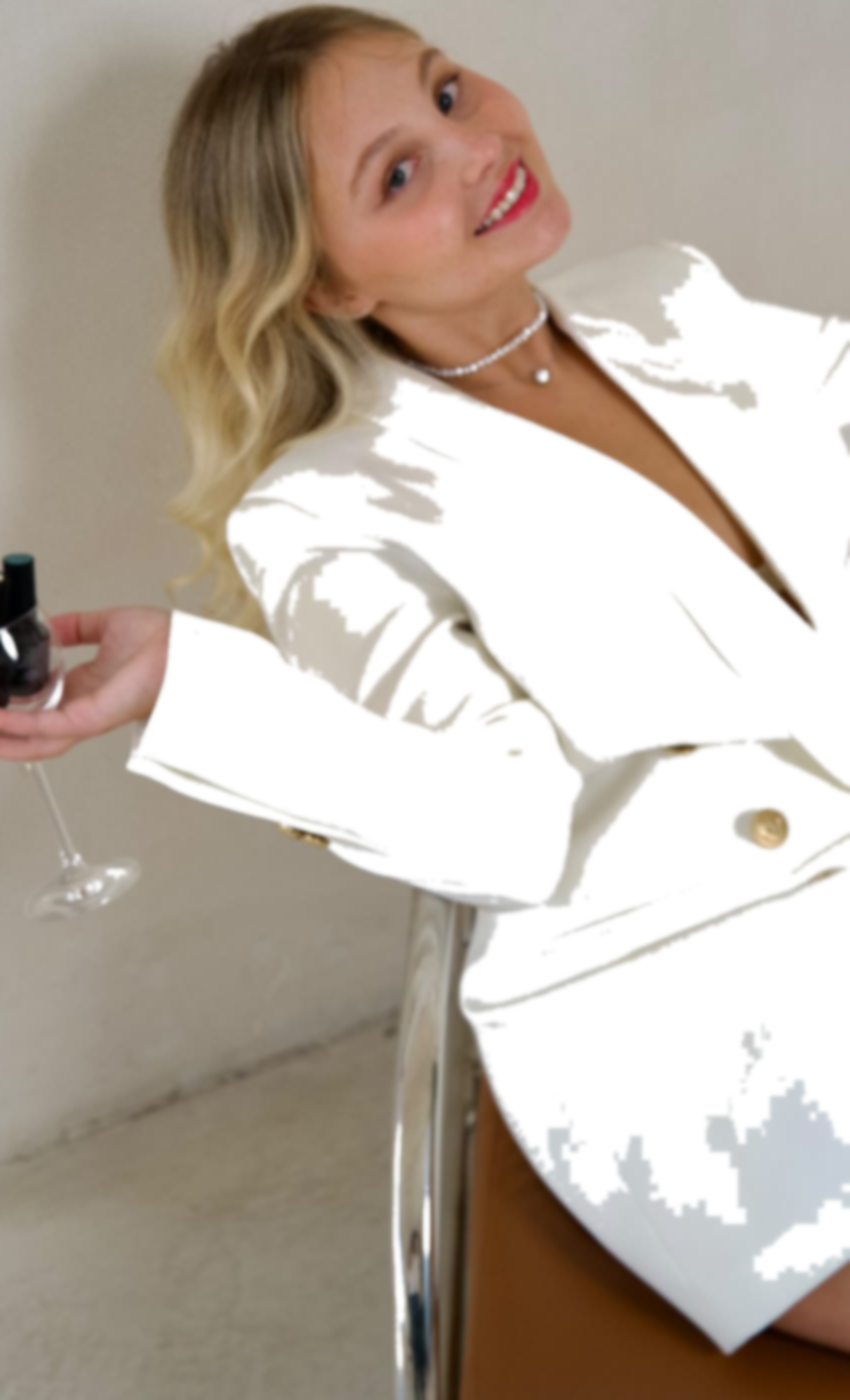
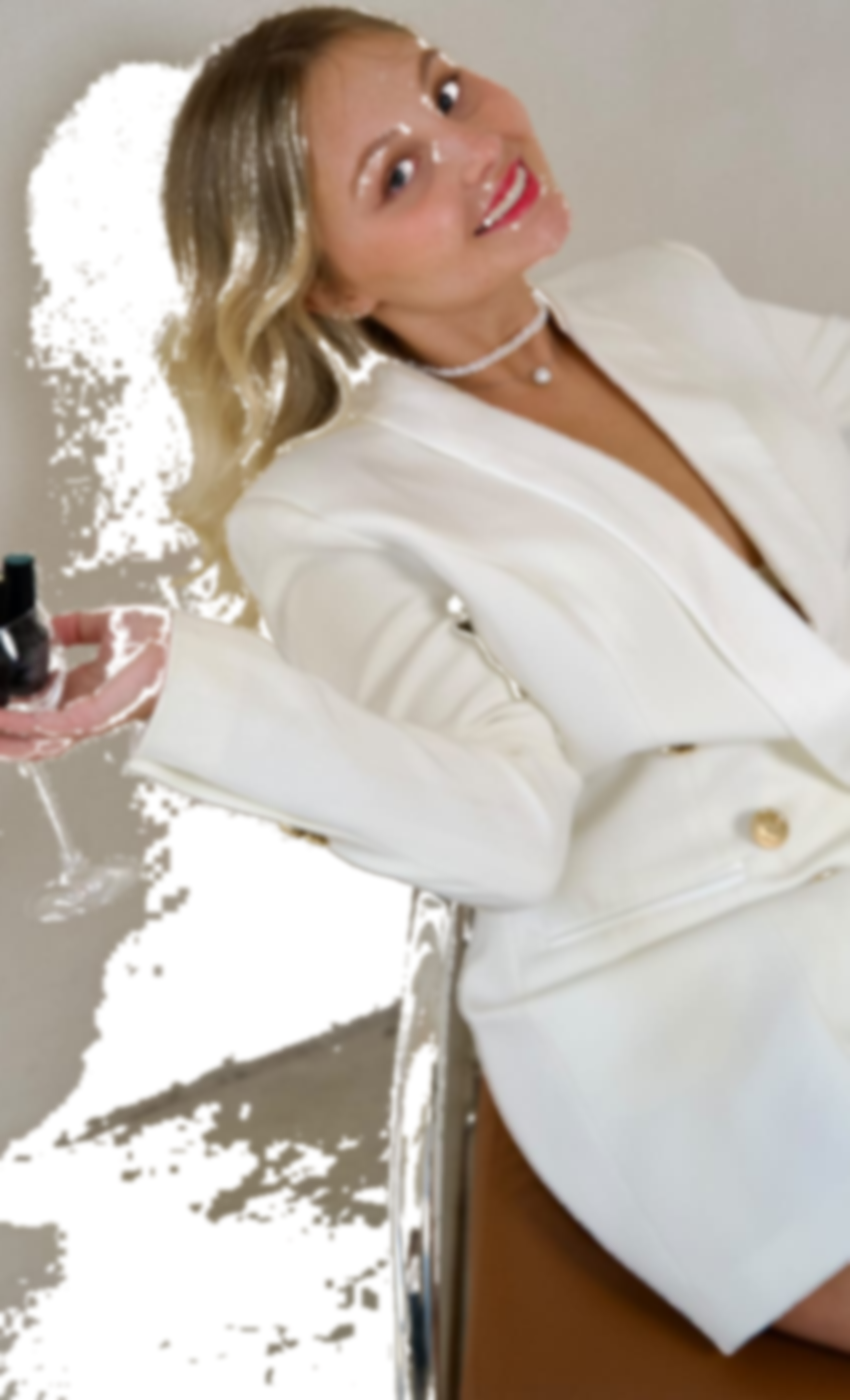
Fix hero section image: show on mobile, improve background removal
- Remove hidden class to display hero image on all devices (was md:only)
- Adjust responsive positioning: mobile bottom with 40% opacity, desktop left with 100%
- Improve background removal with corner-based color detection and Gaussian blur
- Update image positioning to center-bottom on mobile, center-left on desktop

diff --git a/app/page.jsx b/app/page.jsx
@@ -334,20 +334,20 @@ export default function Home() {
         className="min-h-screen flex flex-col pt-24 px-[6.4%] relative overflow-hidden md:flex-row md:items-center md:gap-8"
         style={{ backgroundColor: 'var(--cream)' }}
       >
-        {/* Background Image - Desktop only, positioned on left (RTL) */}
+        {/* Background Image - Show on all devices */}
         <div
-          className="hidden md:block absolute left-0 top-1/2 transform -translate-y-1/2 w-2/5 h-full"
+          className="absolute inset-0 md:left-0 md:top-1/2 md:transform md:-translate-y-1/2 md:w-2/5 md:h-full w-full -bottom-20 opacity-40 md:opacity-100"
           style={{
             backgroundImage: 'url(/images/nicole-hero.png)',
             backgroundSize: 'contain',
             backgroundRepeat: 'no-repeat',
-            backgroundPosition: 'left center',
+            backgroundPosition: 'center bottom',
+            backgroundPositionX: 'center',
             pointerEvents: 'none',
-            opacity: 0.9,
           }}
         />
 
-        {/* Content - Mobile centered, Desktop right side */}
+        {/* Content - centered on mobile, right side on desktop */}
         <div className="flex-1 flex flex-col gap-9 relative z-10 md:ml-auto md:max-w-xl">
           <div className="text-center">
             <span className="eyebrow">{CONTENT.hero.eyebrow}</span>
